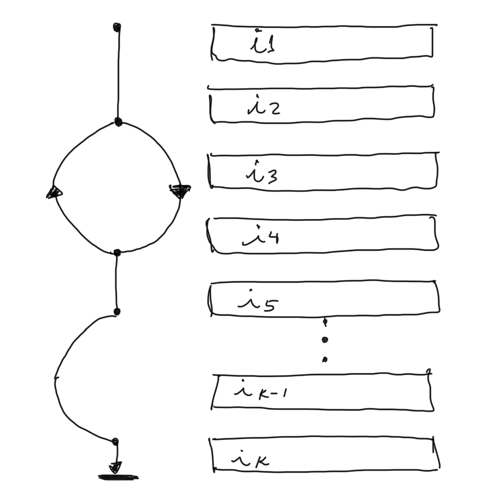
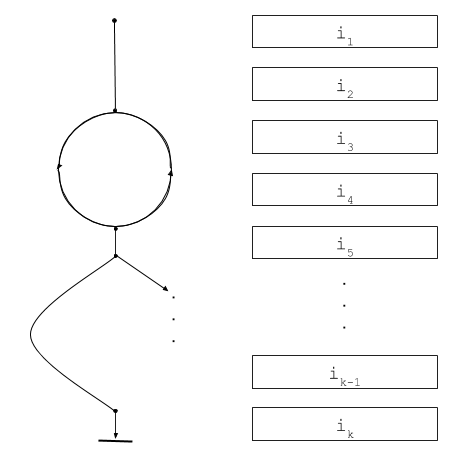
WIP: c11 programacion concurrente

diff --git a/IC-3002/notas/c11.md b/IC-3002/notas/c11.md
@@ -15,21 +15,29 @@ header-includes:
     - \SetKwInput{KwOutput}{Salidas}
     - \newcommand{\twodots}{\mathrel{{.}\,{.}}\nobreak}
     - \newcommand{\assign}{\leftarrow}
-    - \DeclareMathOperator{\ordenar}{ordenar}
-    - \DeclareMathOperator{\bits}{bits}
-    - \DeclareMathOperator{\azar}{azar}
+    - \DeclareMathOperator{\contar}{contar}
+    - \DeclareMathOperator{\Hilo}{Hilo}
+    - \DeclareMathOperator{\start}{start}
+    - \DeclareMathOperator{\join}{join}
+    - \DeclareMathOperator{\adquirir}{adquirir}
+    - \DeclareMathOperator{\liberar}{liberar}
+    - \DeclareMathOperator{\Candado}{Candado}
 output:
   pdf_document:
     latex_engine: xelatex
 ---
 
-Todos los algoritmos que hemos estudiado hasta este punto presuponen un flujo secuencial de ejecución; cada uno de estos algoritmos se ejecuta como una secuencia lineal de pasos.
+En el capítulo 6 estudiamos problemas computacionales que por su complejidad se tornan difíciles (o imposibles) de resolver debido a su alta tasa de crecimiento en el consumo de recursos conforme crece el tamaño de la entrada. Prestando atención al concepto de *tratabilidad*, posteriormente hemos estudiado cómo podemos mejorar la eficiencia de las soluciones o aproximaciones a estos problemas aplicando diferentes técnicas de diseño de algoritmos que minimicen el consumo de recursos. 
 
-Esto quiere decir que presuponemos que los pasos o instrucciones tienen un orden específico: hay una instrucción inicial que llamaremos $i_1$, y posterior a esta se ejecutará la siguiente instrucción en la lista $i_2$, y sucesivamente se ejecutarán las siguientes instrucciones en el orden lineal (o monotónico) hasta ejecutar la última instrucción $i_k$. La figura $\ref{fig:secuencial}$ ilustra este concepto.
+En este capítulo estudiaremos un acercamiento alternativo a este tipo de problemas; en lugar de minimizar el uso de recursos, más bien pondremos a disposición de los algoritmos más recursos para su consumo. Particularmente nos enfocaremos en cómo aprovechar más unidades de procesamiento para reducir los tiempos de solución de  problemas computacionales difíciles.
+
+Hasta este punto, los algoritmos que hemos analizado presuponen un flujo secuencial de ejecución, esto significa que cada uno de estos algoritmos se ejecuta como una secuencia lineal de pasos.
+
+Desde esta perspectiva, cada uno de los pasos o instrucciones de un algoritmo secuencial tienen un orden específico: hay una instrucción inicial que llamaremos $i_1$, posterior a esta se ejecutará la siguiente instrucción $i_2$, y sucesivamente se ejecutarán las siguientes instrucciones en el orden lineal (también llamado monotónico) hasta ejecutar la última instrucción $i_k$. La figura $\ref{fig:secuencial}$ ilustra este concepto.
 
 ![Algoritmo secuencial\label{fig:secuencial}](plots/alg_secuencial.png){ width=350px }
 
-La decisión sobre la siguiente instrucción a ejecutar no siempre sigue necesariamente un orden monotónico. Ocasionalmente el flujo de ejecución puede caer en ciclos como el que observamos en la figura $\ref{fig:secuencial}$ entre las instrucciones $i_2$, $i_3$ e $i_4$. La instrucción $i_4$ decide cuál será la siguiente instrucción a ejecutar (sea $i_2$ o $i_5$) con base en alguna condición relacionada con el estado actual de la máquina.
+La decisión sobre la siguiente instrucción a ejecutar no siempre sigue necesariamente un orden monotónico. Ocasionalmente el flujo de ejecución puede caer en ciclos como el que observamos en la figura $\ref{fig:secuencial}$ entre las instrucciones $i_3$ e $i_4$. La instrucción $i_4$ decide cuál será la siguiente instrucción a ejecutar (sea $i_3$ o $i_5$) con base en alguna condición relacionada con el estado actual de la máquina.
 
 Este flujo también puede decidir saltar hacia adelante en la ejecución, por ejemplo en el caso de la instrucción $i_5$, alguna condición puede cambiar la decisión sobre cuál será la siguiente instrucción a ejecutar, ya sea $i_6$ o $i_k$, siendo este último el caso ilustrado en la figura $\ref{fig:secuencial}$.
 
@@ -37,11 +45,11 @@ El flujo secuencial es entonces un flujo lógico, obedece a mecanismos de contro
 
 Independientemente de que el flujo permita saltar hacia atrás o hacia adelante en la secuencia de instrucciones, es sin lugar a duda un flujo único, un solo **hilo** conductor de la lógica del algoritmo.
 
-La programación concurrente se refiere al diseño e implementación de algoritmos que manejan múltiples hilos de control. La figura $\ref{fig:concurrente}$ ilustra un ejemplo de un algoritmo concurrente con tres hilos.
+La programación concurrente se refiere al diseño e implementación de algoritmos que manejan múltiples hilos de control. La figura $\ref{fig:concurrente}$ ilustra un ejemplo de un algoritmo concurrente con tres hilos: un hilo principal, un hilo `a` y un hilo `b`.
 
 ![Algoritmo concurrente\label{fig:concurrente}](plots/alg_concurrente.png){ width=450px }
 
-Un algoritmo concurrente maneja múltiples hilos lógicos. En el caso de nuestro ejemplo, un hilo principal, que es el hilo que inicia la ejecución, y dos hilos $a$ y $b$ disparados desde el hilo principal a partir de las instrucciones `start a` y `start b`. Desde una perspectiva lógica podemos asumir que una vez que se dispara un hilo nuevo este estará en ejecución al mismo tiempo que los otros hilos del programa, es decir suponemos que los hilos son (al menos aparentemente) simultáneos.
+Como mencionamos anteriormente, un algoritmo **concurrente** maneja múltiples hilos lógicos. En el caso de nuestro ejemplo, un hilo principal, que es el hilo que inicia la ejecución, y dos hilos $a$ y $b$ disparados desde el hilo principal a partir de las instrucciones `start a` y `start b`. Desde una perspectiva lógica podemos asumir que una vez que se dispara un hilo nuevo este estará en ejecución "al mismo tiempo" que los otros hilos del programa, es decir suponemos que los hilos son (al menos aparentemente) simultáneos.
 
 De esta forma, cuando el hilo principal ejecuta la segunda instrucción, etiquetada como `start a`, se dispara un nuevo hilo con el código de $a$, e inmediatamente el hilo principal pasa a ejecutar la tercer instrucción (que también dispara un hilo).
 
@@ -49,29 +57,117 @@ Cada hilo continuará ejecutando sus instrucciones sin detenerse a esperar los r
 
 ![Paralelismo\label{fig:paralelismo}](plots/paralelismo.png){ width=450px }
 
-Los algoritmos concurrentes pueden ser ejecutados en paralelo. Cuando un algoritmo se ejecuta en paralelo distintos hilos se asignan a distintos procesadores, cada procesador ejecuta la instrucciones de su correspondiente hilo de manera realmente simultánea. La figura $\ref{fig:paralelismo}$ (b) ilustra este caso; un algoritmo paralelizado podría potencialmente ejecutarse más rápido que un algoritmo secuencial pues tiene acceso a más recursos de procesamiento. Sin embargo, un mal diseño del algoritmo concurrente podría tener peor desempeño que uno secuencial.
+Los algoritmos concurrentes pueden ser ejecutados en **paralelo** en el caso de que la máquina disponga de múltiples procesadores. Cuando un algoritmo se ejecuta en paralelo, distintos hilos se asignan a distintos procesadores, cada procesador ejecuta la instrucciones de su correspondiente hilo de manera realmente simultánea. La figura $\ref{fig:paralelismo}$ (b) ilustra este caso; un algoritmo paralelizado podría potencialmente ejecutarse más rápido que un algoritmo secuencial pues tiene acceso a más recursos de procesamiento. Sin embargo, un mal diseño del algoritmo concurrente podría tener peor desempeño que uno secuencial.
 
-Por otro lado, cuando un algoritmo concurrente se ejecuta en un único procesador sus hilos son tan solo aparentemente simultáneos, según se ilustra en la figura $\ref{fig:paralelismo}$ (a). Esta aparente simultaneidad se logra aprovechando los tiempos muertos del procesador. Cuando una instrucción requiere de acceso a un dispositivo de entrada/salida, la memoria o el sistema de archivos las señales deben recorrer una distancia física real que toma más tiempo que el acceso a la memoria de trabajo ubicada a lo interno del procesador. Este tiempo de espera puede ser aprovechado resolviendo otras instrucciones de otros hilos de ejecución.
+Por otro lado, cuando un algoritmo concurrente se ejecuta en un único procesador sus hilos son tan solo aparentemente simultáneos, según se ilustra en la figura $\ref{fig:paralelismo}$ (a). Esta aparente simultaneidad se debe a que las instrucciones de todos los hilos se ejecutan en un mismo procesador, y  por tanto deben esperar cada una su correspondiente turno. La concurrencia se logra aprovechando los tiempos muertos del procesador. Cuando una instrucción requiere de acceso a un dispositivo de entrada/salida, a la memoria, o al sistema de archivos se dará un tiempo de espera puesto que las señales eléctricas deben recorrer una distancia física real mayor que la distancia requeridad para el acceso a la memoria de trabajo ubicada a lo interno del procesador (sus registros). Este tiempo de espera puede ser aprovechado permitiendo al procesador ejecutar otras instrucciones de otros hilos mientras los datos de la instrucción anterior viajan hacia y desde los dispositivos externos al procesador.
 
 ![Intercalado de instrucciones\label{fig:intercalado}](plots/intercalado.png){ width=150px }
 
 La figura $\ref{fig:intercalado}$ presenta una posible ejecución de nuestro algoritmo concurrente de ejemplo en un único procesador. En la figura podemos observar que el procesador va intercalando instrucciones tanto del hilo principal, como de los hilos $a$ y $b$, siguiendo el orden lógico de cada hilo y aprovechando los tiempos de espera que pueda generar alguna instrucción. La decisión de cuál instrucción ejecutar en un momento determinado puede ser responsabilidad del hardware, del sistema operativo o de alguna combinación de ambos.
 
-Con base en esto, podemos determinar que cuando tenemos un único procesador, el uso de algoritmos concurrentes vale la pena cuando las tareas por resolver implican un uso intensivo de entrada/salida —ya sea a través del sistema de archivos, dispositivos periféricos, o la red por ejemplo—. Por ejemplo en aplicaciones relacionadas con bases de datos, interfaz de usuario o servicios web. Mientras que los algoritmos concurrentes intensivos en el uso de procesador, como por ejemplo las redes neuronales o la renderización de gráficos tridimensionales, son recomendables cuando hay disponibilidad de múltiples procesadores.
+Con base en este última idea, podemos concluir que cuando tenemos un único procesador, el uso de algoritmos concurrentes es útil sólo si las tareas por resolver implican un uso intensivo de entrada/salida —ya sea a través del sistema de archivos, dispositivos periféricos, o la red entre otros—. Por ejemplo en aplicaciones relacionadas con bases de datos, interfaz de usuario, o servicios web. Por otro lado, los algoritmos concurrentes intensivos en el uso de procesador, como por ejemplo para implementar redes neuronales, o la renderización de gráficos tridimensionales, son recomendables cuando hay disponibilidad de múltiples procesadores que permitan paralelizarlos.
 
-arquitecturas paralelas
+## Condiciones de carrera y sincronización ##
 
-ejemplo de test de primalidad concurrente
+La programación concurrente tiene el potencial de proveer a los algoritmos de más recursos para procesamiento, pero también introduce potenciales complicaciones en el manejo del espacio de almacenamiento, particularmente cuando este es compartido entre varios hilos.
 
-condiciones de carrera  y sincronización
+Para ejemplificar la situación, consideremos el siguiente algoritmo concurrente.
 
-modelo PRAM
+\begin{algorithm}[H]
+    \DontPrintSemicolon
+ 
+    \BlankLine
+    \caption{Conteo}
+    \SetAlgoVlined
+    \SetKwProg{Fn}{función}{}{}
+    \Fn{$\contar(c, n)$}{
+      \For{$i \in [1 \twodots n]$} {
+          $c \assign c + 1$ \;
+      }
+    }
+
+    $n \assign 10000$ \;
+    $c \assign 0$ \;
+
+    $h_1 \assign \Hilo(\contar(c, n))$ \;
+    $h_2 \assign \Hilo(\contar(c, n))$ \;
+
+    $\start(h_1)$ \;
+    $\start(h_2)$ \;
+
+    $\join(h_1)$ \;
+    $\join(h_2)$ \;
+\end{algorithm}
+
+Este algoritmo crea dos hilos $h_1$ y $h_2$, cada uno de los cuales debe ejecutar la misma tarea de contar hasta diez mil. 
+
+Ambos hilos comparten una misma dirección de memoria $c$ donde se irá registrando el conteo.
+
+El resultado esperado después de ejecutar el algoritmo es que la variable $c$ contenga el valor `20000`. Sin embargo, si lo ejecutamos podremos comprobar que el algoritmo tiene un comportamiento no determinístico. En cada ejecución retornará un valor diferente, que probablemente será menor que veinte mil en la mayoría de los casos.
+
+Esta situación se debe a que el incremento en el valor de $c$ no es una operación atómica. Tal y como se presenta en la figura $\ref{fig:cond_carrera_1}$, cada incremento requiere de tres operaciones: leer el estado actual de $c$ a un registro, incrementar el registro, y actualizar el estado de $c$ con el valor del registro.
+
+![Operación compuesta de incremento\label{fig:cond_carrera_1}](plots/cond_carrera_1.png){ width=450px }
+
+Cuando introducimos un segundo hilo con la misma tarea de conteo, la ejecución de las operaciones de modificación del valor de $c$ pueden suceder en un orden intercalado con respecto a $c$, por ejemplo podría suceder una situación como la que se ejemplifica en $\ref{fig:cond_carrera_2}$,
+
+![Condición de carrera\label{fig:cond_carrera_2}](plots/cond_carrera_2.png){ width=450px }
+
+En el caso de este ejemplo, el hilo $h_1$ lee el valor de $c$ como `5` y, mientras está incrementándolo en el registro local, $h_2$ también lee el valor actual de $c$ como `5` pues $h_1$ no ha tenido oportunidad de actualizarlo aún. Luego $h_1$ escribe el nuevo valor de $c$ como `6` para que posteriormente $h_2$ sobreescriba el valor de $c$ con `6` también. De esta forma se pierde la secuencia del conteo, pues un hilo constantemente sobreescribirá el estado de conteo del otro. 
+
+Aún más, si un hilo logra adelantarse por dos o más incrementos, el otro hilo estará trabajando con un valor tan desactualizado que retrocederá la cuenta por varias unidades cuando sea escrito; por esta razón el valor resultado del algoritmo es casi siempre menor que el esperado `20000`.
+
+Podemos resolver este problema causado por la memoria compartida entre hilos utilizando candados que bloqueen el acceso a las direcciones de memoria para que sean accedidas por un hilo a la vez.
+
+\begin{algorithm}[H]
+    \DontPrintSemicolon
+ 
+    \BlankLine
+    \caption{Conteo sincronizado}
+    \SetAlgoVlined
+    \SetKwProg{Fn}{función}{}{}
+    \Fn{$\contar(c, n, L)$}{
+      \For{$i \in [1 \twodots n]$} {
+          $\adquirir(L)$ \;
+          $c \assign c + 1$ \;
+          $\liberar(L)$ \;
+      }
+    }
+
+    $n \assign 10000$ \;
+    $c \assign 0$ \;
+    $L \assign \Candado()$ \;
+
+    $h_1 \assign \Hilo(\contar(c, n, L))$ \;
+    $h_2 \assign \Hilo(\contar(c, n, L))$ \;
+
+    $\start(h_1)$ \;
+    $\start(h_2)$ \;
+
+    $\join(h_1)$ \;
+    $\join(h_2)$ \;
+\end{algorithm}
+
+El algoritmo de conteo sincronizado utiliza un candado que debe ser adquirido por el hilo justo antes de incrementar el valor de $c$ (línea 3). Posterior a la modificación de la memoria compartida, se libera el candado (línea 5). 
+
+Mientras un hilo esté en posesión del candado, todos los demás hilos que intenten adquirirlo van a quedar bloqueados —haciendo cola— hasta que el candado sea liberado. En el momento en que se libera, el hilo al frente de la cola de espera lo adquiere y los demás hilos en cola continuan esperando su turno.
+
+La figura $\ref{fig:cond_carrera_3}$ ilustra una posible ejecución del algoritmo sincronizado. En este ejemplo, el hilo $h_1$ es el primero en adquirir el candado $L$, por tanto el hilo $h_2$ queda bloqueado en espera a que sea liberado. Esto da chance a $h_1$ de ejecutar las operaciones para incrementar el valor de $c$, asegurando de esta forma que $h_2$ lea el valor de $c$ más actualizado `6` y por tanto se respete el orden de la secuencia de conteo.
+
+![Sincronización con candados\label{fig:cond_carrera_3}](plots/cond_carrera_3.png){ width=450px }
 
 
+## Prueba de primalidad concurrente ##
+
+
+## Arquitecturas paralelas ##
+
+## Modelo PRAM ##
 
 ## Ejercicios ##
-
 
 ## Referencias ##
 
 Butcher P. (2014) Seven Concurrency Models in Seven Weeks. Pragmatic Bookshelf.
+
+Berman K., Paul J. (2005) Algorithms: Sequential, Parallel, and Distributed. Thomson Course Technology.

diff --git a/IC-3002/notas/c06.md b/IC-3002/notas/c06.md
@@ -205,3 +205,27 @@ Problema de optimización
 Las técnicas de diseño de algoritmos de programación probabilística, *hill-climbing*, *simulated annealing* y algoritmos genéticos son diferentes acercamientos a la resolución del problema de optimización.
 
 Discutiremos estas técnicas con mayor detalle en próximos capítulos.
+
+## Ejercicios
+
+1. Demuestre que el problema de la búsqueda lineal está en la clase $\mathcal{P}$.
+2. Demuestre que el problema de ordenamiento de secuencias está en la clase $\mathcal{P}$.
+3. Demuestre que el problema de ordenamiento de secuencias está en la clase $\mathcal{NP}$.
+4. Proponga un algoritmo (no necesariamente eficiente) que resuelva el problema 3SAT.
+5. Demuestre que el problema 3SAT está en $\mathcal{NP}$.
+6. Consideremos el problema de la mochila (Knapsack en inglés) especificado a continuación.
+
+(@) **Mochila**.  
+  **Entrada**. Un conjunto $Obj$ de $n$ objetos, con cada objeto $i$ representado por una tupla $(p_i, v_i)$ donde $p_i$ es un número natural que representa el peso de $i$ y $v$ es un número natural que representa el valor de $i$; y un número natural $C$ que representa una capacidad máxima.  
+  **Salida**. Un subconjunto $M \subseteq Obj$ de $m$ objetos, donde $\sum_{(p_j, v_j) \in M} p_j \le C$ y valor $\sum_{(p_j, v_j) \in M} v_j$ máximo.  
+
+a. Formule un problema de decisión que corresponda a este problema.
+b. Demuestre que este problema está en la clase $\mathcal{NP}$.
+
+7. Consideremos el problema de decisión de la suma de subconjuntos.
+
+(@) **Suma de subconjuntos**.  
+  **Entrada**. Un conjunto $S$ de $n$ números naturales; y un número natural $k$.  
+  **Salida**. ${Verdadero}$ cuando existe un subconjunto $P \subseteq S$ tal que se cumple $\sum_{p \in P} p = k$. ${Falso}$ cuando esto no se cumple.
+
+a. Partiendo de la premisa de que este problema está en $\mathcal{NP}-completo$, proponga una reducción para demostrar que el problema de la mochila está en $\mathcal{NP}-completo$.
